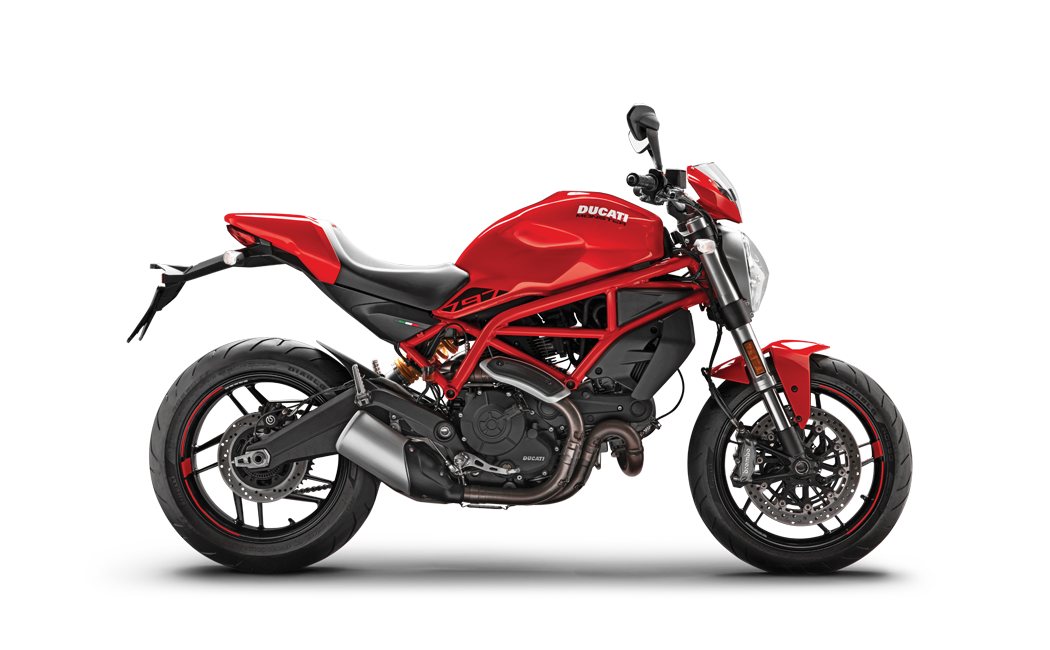
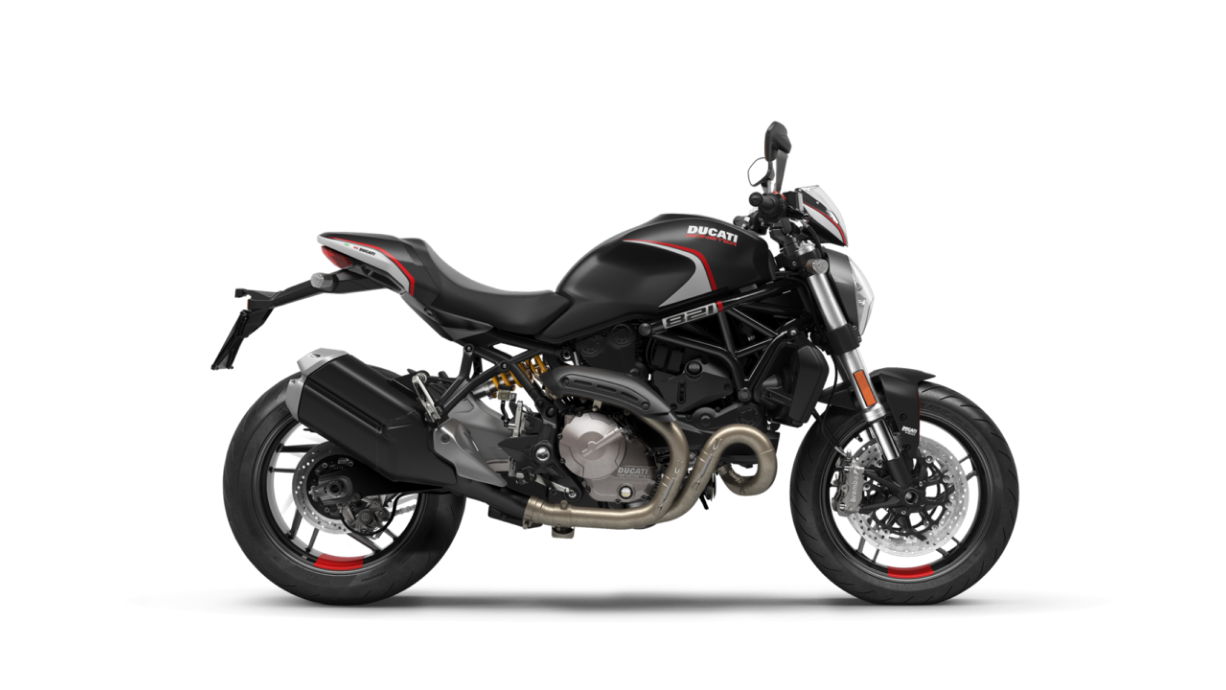
button function change

Changed region(s): [[0.1219, 0.1538, 0.8838, 0.9231]]

diff --git a/src/Card/index.js b/src/Card/index.js
@@ -1,7 +1,7 @@
 import "./index.scss";
 import { bikes } from "../Details.js";
 
-function Card() {
+function Card({ setBike, bike }) {
   return (
     <div className="card-container">
       <div className="card-content">
@@ -9,40 +9,55 @@ function Card() {
           <div className="details">
             <div className="itens">
               <h2>Displacement</h2>
-              <span>{bikes.details.displacement}</span>
+              <span>{bikes[bike].details.displacement}</span>
             </div>
 
             <div className="itens">
               <h2>Horse Power</h2>
-              <span>{bikes.details.horsePower}</span>
+              <span>{bikes[bike].details.horsePower}</span>
             </div>
 
             <div className="itens">
               <h2>Torque</h2>
-              <span>{bikes.details.torque}</span>
+              <span>{bikes[bike].details.torque}</span>
             </div>
 
             <div className="itens">
               <h2>Dry Weight</h2>
-              <span>{bikes.details.dryWeight}</span>
+              <span>{bikes[bike].details.dryWeight}</span>
             </div>
 
             <div className="itens">
               <h2>Seat Height</h2>
-              <span>{bikes.details.seatHeight}</span>
+              <span>{bikes[bike].details.seatHeight}</span>
             </div>
 
             <div className="itens">
               <h2>Safety</h2>
-              <span>{bikes.details.safety}</span>
+              <span>{bikes[bike].details.safety}</span>
             </div>
           </div>
         </div>
         <div className="color-container">
           <div className="colors">
-            <button className="btn1"></button>
-            <button className="btn2"></button>
-            <button className="btn3"></button>
+            <button
+              className="btn1"
+              onClick={() => {
+                setBike(0);
+              }}
+            ></button>
+            <button
+              className="btn2"
+              onClick={() => {
+                setBike(1);
+              }}
+            ></button>
+            <button
+              className="btn3"
+              onClick={() => {
+                setBike(2);
+              }}
+            ></button>
           </div>
         </div>
         <div className="vibe-container">

diff --git a/src/Details.js b/src/Details.js
@@ -1,11 +1,43 @@
-export const bikes = {
-  model: "797",
-  details: {
-    displacement: "803 cc",
-    horsePower: "73 hp (54kW)",
-    torque: "67 Nm (49.0 lb-ft)",
-    dryWeight: "175 Kg (386 lb)",
-    seatHeight: "805 mm (31.69 in)",
-    safety: "ABS",
+import m0 from './assets/M0.png'
+import m1 from './assets/M1.png'
+import m2 from './assets/M2.png'
+
+export const bikes = [
+  {
+    img: m0,
+    model: "797",
+    details: {
+      displacement: "803 cc",
+      horsePower: "73 hp (54kW)",
+      torque: "67 Nm (49.0 lb-ft)",
+      dryWeight: "175 Kg (386 lb)",
+      seatHeight: "805 mm (31.69 in)",
+      safety: "ABS",
+    }
   },
-};
+  {
+    img: m1,
+    model: "821",
+    details: {
+      displacement: "821 cc",
+      horsePower: "109 hp (80kW)",
+      torque: "86 Nm (63 lb-ft)",
+      dryWeight: "180.5 Kg (398 lb)",
+      seatHeight: "805 mm (31.69 in)",
+      safety: "ABS",
+    }
+  },
+  {
+    img: m2,
+    model: "797",
+    details: {
+      displacement: "803 cc",
+      horsePower: "73 hp (54kW)",
+      torque: "67 Nm (49.0 lb-ft)",
+      dryWeight: "175 Kg (386 lb)",
+      seatHeight: "805 mm (31.69 in)",
+      safety: "ABS",
+    }
+  },
+  
+];

diff --git a/src/App.js b/src/App.js
@@ -5,14 +5,26 @@ import Bike from "./Bike";
 import Card from "./Card";
 
 import "./App.scss";
+import { useEffect, useState } from "react";
 
 function App() {
+  const [bike, setBike] = useState(0)
+
+
+  function changeBike(response) {
+    setBike(response)
+  }
+
+  useEffect(() => {
+    
+  }, [bike]);
+
   return (
     <div className="app-container">
       <Header />
       <Logo />
-      <Bike />
-      <Card />
+      <Bike bike={bike}/>
+      <Card setBike={changeBike} bike={bike}/>
     </div>
   );
 }

diff --git a/src/Bike/index.js b/src/Bike/index.js
@@ -1,11 +1,11 @@
 import './index.scss'
-import m1 from '../assets/M1.png'
+import { bikes } from '../Details';
 
-function Bike() {
+function Bike({bike}) {
   return (
       <div className="bike-container">
-            <span>797</span>
-            <img src={m1} alt="Bike"/>
+            <span>{bikes[bike].model}</span>
+            <img src={bikes[bike].img} alt="Bike"/>
       </div>
   );
 }

diff --git a/src/Logo/index.scss b/src/Logo/index.scss
@@ -15,5 +15,15 @@
 
     .monsterLogo {
         width: 322px;
+        min-width: 200px;
+    }
+}
+
+@media (max-width: 320px) {
+    .logo-container {
+        .monsterLogo {
+            width: 300px;
+            
+        }
     }
 }

diff --git a/src/Bike/index.scss b/src/Bike/index.scss
@@ -39,7 +39,7 @@
 @media (max-width: 320px) {
   .bike-container {
     img {
-      min-height: 240px;
+      min-height: 220px;
     }
   }
 }

diff --git a/src/Global.scss b/src/Global.scss
@@ -16,7 +16,7 @@ html {
 
 @media (max-width: 425px) {
   html {
-    font-size: 45%;
+    font-size: 46%;
 
   }
 }
